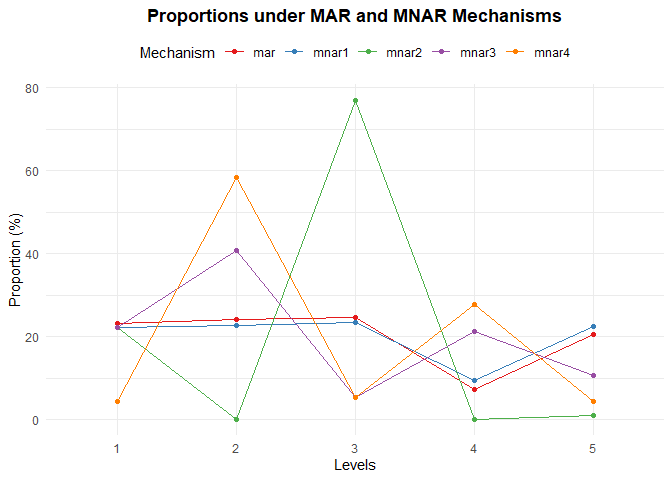
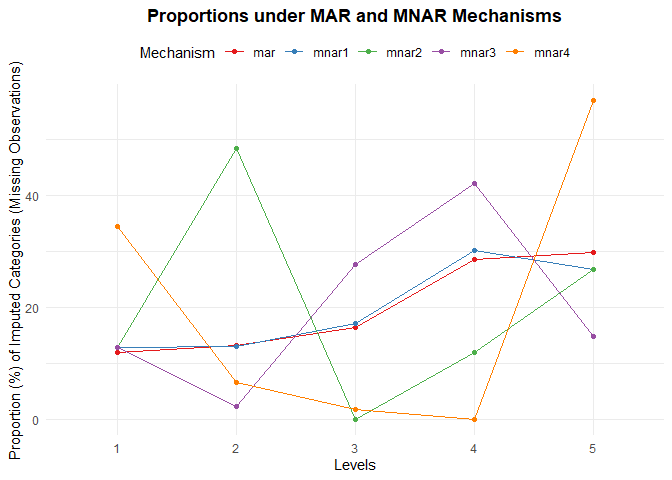
Modification

diff --git a/README.md b/README.md
@@ -68,9 +68,9 @@ mechanism for ordinal variables:
 ``` r
 set.seed(321)
 simdaNA <- simmnar(data = simda, Y = "Y",
-                   ord_var = "X1", A = 2, probA = 0.5,
-                   B = 4, probB = 0.8, verbose = TRUE)
-#> 192 missing values introduced into X1.mis.
+                   ord_var = "X1", A = 1, probA = 0.6,
+                   B = 5, probB = 0.4, verbose = TRUE)
+#> 50 missing values introduced into X1.mis.
 head(simdaNA)
 #>   id X2 X1 Y X1.mis
 #> 1  1  c  5 1      5
@@ -78,22 +78,15 @@ head(simdaNA)
 #> 3  3  c  5 1      5
 #> 4  4  b  2 0      2
 #> 5  5  c  2 0      2
-#> 6  6  b  4 0   <NA>
+#> 6  6  b  4 0      4
 summary(simdaNA)
 #>        id         X2      X1      Y        X1.mis   
-#>  Min.   :   1.0   a:249   1:126   0:607   1   :126  
-#>  1st Qu.: 250.8   b:248   2:162   1:393   2   :144  
+#>  Min.   :   1.0   a:249   1:126   0:607   1   :103  
+#>  1st Qu.: 250.8   b:248   2:162   1:393   2   :162  
 #>  Median : 500.5   c:257   3:178           3   :178  
-#>  Mean   : 500.5   d:246   4:254           4   : 80  
-#>  3rd Qu.: 750.2           5:280           5   :280  
-#>  Max.   :1000.0                           NA's:192
-str(simdaNA)
-#> 'data.frame':    1000 obs. of  5 variables:
-#>  $ id    : int  1 2 3 4 5 6 7 8 9 10 ...
-#>  $ X2    : Factor w/ 4 levels "a","b","c","d": 3 3 3 2 3 2 2 2 3 1 ...
-#>  $ X1    : Ord.factor w/ 5 levels "1"<"2"<"3"<"4"<..: 5 3 5 2 2 4 2 5 5 4 ...
-#>  $ Y     : Factor w/ 2 levels "0","1": 2 1 2 1 1 1 1 2 2 1 ...
-#>  $ X1.mis: Ord.factor w/ 5 levels "1"<"2"<"3"<"4"<..: 5 3 5 2 2 NA 2 5 5 4 ...
+#>  Mean   : 500.5   d:246   4:254           4   :254  
+#>  3rd Qu.: 750.2           5:280           5   :253  
+#>  Max.   :1000.0                           NA's: 50
 ```
 
 ## Step 1: Imputation under MAR with `firststep()`
@@ -121,21 +114,21 @@ imputed_mice <- firststep(simdaNA[, c("Y", "X1.mis", "X2")],
 
 summary(complete(imputed_mice, 1))
 #>  Y       X1.mis  X2     
-#>  0:607   1:169   a:249  
-#>  1:393   2:192   b:248  
-#>          3:225   c:257  
-#>          4:100   d:246  
-#>          5:314
+#>  0:607   1:105   a:249  
+#>  1:393   2:168   b:248  
+#>          3:183   c:257  
+#>          4:275   d:246  
+#>          5:269
 ```
 
 ``` r
 summary(complete(imputed_mice,1))
 #>  Y       X1.mis  X2     
-#>  0:607   1:169   a:249  
-#>  1:393   2:192   b:248  
-#>          3:225   c:257  
-#>          4:100   d:246  
-#>          5:314
+#>  0:607   1:105   a:249  
+#>  1:393   2:168   b:248  
+#>          3:183   c:257  
+#>          4:275   d:246  
+#>          5:269
 ```
 
 ## Step 2: Modify imputed values with `secondstep()`
@@ -144,16 +137,16 @@ summary(complete(imputed_mice,1))
 formula <- "X1.mis.mar ~ Y + X2"
 manydelta <- data.frame(
   delta1 = c(0, 0, 0, 0),
-  delta2 = c(0, -1, 2, 0),
-  delta3 = c(0, 0.5, 0, 0.5),
-  delta4 = c(-1, 0.5, 0, 1)
+  delta2 = c(0, 1, -2, 0),
+  delta3 = c(0, -0.5, 0, 0.5),
+  delta4 = c(1, 0.5, 0, -1)
 )
 
 level_ord_var <- 5
-seed <- 123
 ```
 
 ``` r
+seed <- 123
 out <- secondstep_mice(data = simdaNA, mardata = imputed_mice,
                   level_ord_var = level_ord_var,
                   formula = formula,
@@ -167,40 +160,44 @@ out <- secondstep_mice(data = simdaNA, mardata = imputed_mice,
 
 summary(out$mnardata[[2]])
 #>  Y       X1.mis.mar X2       X1.mis         eta             etanew       
-#>  0:607   1:165      a:249   1   :126   Min.   :0.0000   Min.   :-3.0479  
-#>  1:393   2:191      b:248   2   :144   1st Qu.:0.2036   1st Qu.:-0.1249  
-#>          3:235      c:257   3   :178   Median :0.4624   Median : 0.6761  
-#>          4: 91      d:246   4   : 80   Mean   :0.6320   Mean   : 0.6745  
-#>          5:318              5   :280   3rd Qu.:1.1745   3rd Qu.: 1.4863  
-#>                             NA's:192   Max.   :1.4332   Max.   : 4.7238  
+#>  0:607   1:111      a:249   1   :103   Min.   :0.0000   Min.   :-3.0479  
+#>  1:393   2:169      b:248   2   :162   1st Qu.:0.1263   1st Qu.:-0.1804  
+#>          3:188      c:257   3   :178   Median :0.2907   Median : 0.5869  
+#>          4:265      d:246   4   :254   Mean   :0.5477   Mean   : 0.5902  
+#>          5:267              5   :253   3rd Qu.:1.1296   3rd Qu.: 1.3777  
+#>                             NA's: 50   Max.   :1.2940   Max.   : 4.5845  
 #>  mnar1   mnar2   mnar3   mnar4  
-#>  1:167   1:167   1:167   1:134  
-#>  2:175   2:144   2:212   2:245  
-#>  3:228   3:328   3:191   3:191  
-#>  4: 99   4: 80   4:126   4:141  
-#>  5:331   5:281   5:304   5:289  
+#>  1:109   1:109   1:109   1:119  
+#>  2:170   2:189   2:164   2:166  
+#>  3:186   3:178   3:192   3:180  
+#>  4:270   4:259   4:275   4:254  
+#>  5:265   5:265   5:260   5:281  
 #> 
 ```
 
 ``` r
 summary(out$mnardata[[2]])
 #>  Y       X1.mis.mar X2       X1.mis         eta             etanew       
-#>  0:607   1:165      a:249   1   :126   Min.   :0.0000   Min.   :-3.0479  
-#>  1:393   2:191      b:248   2   :144   1st Qu.:0.2036   1st Qu.:-0.1249  
-#>          3:235      c:257   3   :178   Median :0.4624   Median : 0.6761  
-#>          4: 91      d:246   4   : 80   Mean   :0.6320   Mean   : 0.6745  
-#>          5:318              5   :280   3rd Qu.:1.1745   3rd Qu.: 1.4863  
-#>                             NA's:192   Max.   :1.4332   Max.   : 4.7238  
+#>  0:607   1:111      a:249   1   :103   Min.   :0.0000   Min.   :-3.0479  
+#>  1:393   2:169      b:248   2   :162   1st Qu.:0.1263   1st Qu.:-0.1804  
+#>          3:188      c:257   3   :178   Median :0.2907   Median : 0.5869  
+#>          4:265      d:246   4   :254   Mean   :0.5477   Mean   : 0.5902  
+#>          5:267              5   :253   3rd Qu.:1.1296   3rd Qu.: 1.3777  
+#>                             NA's: 50   Max.   :1.2940   Max.   : 4.5845  
 #>  mnar1   mnar2   mnar3   mnar4  
-#>  1:167   1:167   1:167   1:134  
-#>  2:175   2:144   2:212   2:245  
-#>  3:228   3:328   3:191   3:191  
-#>  4: 99   4: 80   4:126   4:141  
-#>  5:331   5:281   5:304   5:289  
+#>  1:109   1:109   1:109   1:119  
+#>  2:170   2:189   2:164   2:166  
+#>  3:186   3:178   3:192   3:180  
+#>  4:270   4:259   4:275   4:254  
+#>  5:265   5:265   5:260   5:281  
 #> 
 ```
 
 ## Check plausibility with `checkprop()`
+
+En résumé, parmi les quatre scénarios explorés à l’aide du vecteur de
+paramètres de sensibilité, seuls le scénario `MNAR4` permet de refléter
+correctement les causes plausibles des données manquantes.
 
 ``` r
 checkprop(data = out$mnardata,
@@ -208,12 +205,12 @@ checkprop(data = out$mnardata,
           ord_mis = "X1.mis",
           manydelta = manydelta)
 #> $table
-#>        mar     mnar1     mnar2     mnar3     mnar4
-#> 1 23.22917 22.083333 22.083333 22.083333  4.322917
-#> 2 24.16667 22.604167  0.000000 40.677083 58.437500
-#> 3 24.63542 23.333333 76.875000  5.260417  5.260417
-#> 4  7.34375  9.427083  0.000000 21.250000 27.708333
-#> 5 20.62500 22.552083  1.041667 10.729167  4.270833
+#>    mar mnar1 mnar2 mnar3 mnar4
+#> 1 12.0  12.8  12.8  12.8  34.6
+#> 2 13.2  13.0  48.4   2.4   6.6
+#> 3 16.4  17.2   0.0  27.8   1.8
+#> 4 28.6  30.2  12.0  42.2   0.0
+#> 5 29.8  26.8  26.8  14.8  57.0
 #> 
 #> $plot
 ```
@@ -222,109 +219,126 @@ checkprop(data = out$mnardata,
 
 ## Step 4: Final analysis with `thirdstep_mice()`
 
+Les noms `mnar1.L`, `mnar1.Q`, `mnar1.C` et `mnar1^4` désignent les
+composantes polynomiales associées à la variable ordinale `mnar1`,
+générées automatiquement par la codification `contr.poly` dans *R*. Plus
+précisément :
+
+- `.L` correspond à la composante **linéaire**,
+- `.Q` à la composante **quadratique**,
+- `.C` à la composante **cubique**,
+- `^4` à la composante **quartique**.
+
+Par ailleurs, `MNAR 1` désigne les résultats de l’analyse de sensibilité
+sous le scénario défini par le vecteur de sensibilité delta1.  
+Le même raisonnement s’applique respectivement pour `MNAR 2`, `MNAR 3`
+et `MNAR 4`.
+
 ``` r
 formula <- "Y ~ X1.mis.mar + X2"
 
 # Analysis for MAR
 thirdstep_mice(data = out$mnardata, formula = formula)
 #>           term   estimate std.error statistic       df      p.value      2.5 %
-#> 1  (Intercept) -1.3080085 0.1710881 -7.645232 831.4313 5.756427e-14 -1.6438240
-#> 2 X1.mis.mar.L  1.7617941 0.1921677  9.168003 190.2952 7.891561e-17  1.3827416
-#> 3 X1.mis.mar.Q  0.8804233 0.1730646  5.087251 521.6876 5.076434e-07  0.5404341
-#> 4 X1.mis.mar.C -0.4961025 0.2434016 -2.038206 124.3862 4.364951e-02 -0.9778477
-#> 5 X1.mis.mar^4  0.5495191 0.1991266  2.759647 300.6493 6.141448e-03  0.1576607
-#> 6          X2b  0.8299114 0.2253041  3.683516 733.7659 2.469434e-04  0.3875938
-#> 7          X2c  0.8180834 0.2221247  3.682991 773.1735 2.465609e-04  0.3820444
-#> 8          X2d  0.6811551 0.2299625  2.962027 488.7064 3.205055e-03  0.2293179
-#>        97.5 %   conf.low   conf.high
-#> 1 -0.97219305 -1.6438240 -0.97219305
-#> 2  2.14084651  1.3827416  2.14084651
-#> 3  1.22041250  0.5404341  1.22041250
-#> 4 -0.01435733 -0.9778477 -0.01435733
-#> 5  0.94137755  0.1576607  0.94137755
-#> 6  1.27222891  0.3875938  1.27222891
-#> 7  1.25412237  0.3820444  1.25412237
-#> 8  1.13299231  0.2293179  1.13299231
+#> 1  (Intercept) -1.3275547 0.1813522 -7.320311 926.1892 5.366412e-13 -1.6834637
+#> 2 X1.mis.mar.L  1.9096327 0.2360606  8.089588 269.7971 2.047538e-14  1.4448777
+#> 3 X1.mis.mar.Q  1.0003713 0.2117767  4.723709 496.9288 3.017974e-06  0.5842833
+#> 4 X1.mis.mar.C  1.2794045 0.1958654  6.532061 533.8962 1.514215e-10  0.8946432
+#> 5 X1.mis.mar^4  1.0068195 0.1731628  5.814294 579.8199 1.006313e-08  0.6667167
+#> 6          X2b  0.9061304 0.2400229  3.775183 876.6643 1.706604e-04  0.4350437
+#> 7          X2c  0.8177132 0.2363148  3.460271 930.1502 5.641551e-04  0.3539413
+#> 8          X2d  0.7785595 0.2387134  3.261483 972.9962 1.146822e-03  0.3101072
+#>       97.5 %   conf.low  conf.high
+#> 1 -0.9716458 -1.6834637 -0.9716458
+#> 2  2.3743877  1.4448777  2.3743877
+#> 3  1.4164594  0.5842833  1.4164594
+#> 4  1.6641659  0.8946432  1.6641659
+#> 5  1.3469223  0.6667167  1.3469223
+#> 6  1.3772170  0.4350437  1.3772170
+#> 7  1.2814850  0.3539413  1.2814850
+#> 8  1.2470119  0.3101072  1.2470119
+```
 
+``` r
 # Analysis for MNAR
 thirdstep_mice(data = out$mnardata, manydelta = manydelta)
 #> $mnar1
 #>          term   estimate std.error statistic       df      p.value      2.5 %
-#> 1 (Intercept) -1.3246051 0.1731645 -7.649404 628.9897 7.604332e-14 -1.6646556
-#> 2     mnar1.L  1.7000440 0.1861616  9.132087 292.6458 1.140050e-17  1.3336587
-#> 3     mnar1.Q  0.8856254 0.1791687  4.942970 269.4031 1.354169e-06  0.5328766
-#> 4     mnar1.C -0.4594599 0.2404779 -1.910612 137.9896 5.812875e-02 -0.9349580
-#> 5     mnar1^4  0.5965721 0.1955006  3.051510 409.2310 2.425271e-03  0.2122613
-#> 6         X2b  0.8200315 0.2253022  3.639696 674.5516 2.938367e-04  0.3776536
-#> 7         X2c  0.8266093 0.2201793  3.754255 830.5055 1.859712e-04  0.3944360
-#> 8         X2d  0.6909419 0.2237458  3.088067 746.2778 2.089271e-03  0.2516959
-#>        97.5 %   conf.low   conf.high
-#> 1 -0.98455461 -1.6646556 -0.98455461
-#> 2  2.06642929  1.3336587  2.06642929
-#> 3  1.23837433  0.5328766  1.23837433
-#> 4  0.01603811 -0.9349580  0.01603811
-#> 5  0.98088294  0.2122613  0.98088294
-#> 6  1.26240940  0.3776536  1.26240940
-#> 7  1.25878255  0.3944360  1.25878255
-#> 8  1.13018793  0.2516959  1.13018793
+#> 1 (Intercept) -1.3017247 0.1806819 -7.204511 933.3894 1.200047e-12 -1.6563146
+#> 2     mnar1.L  1.9226339 0.2209149  8.703054 935.3380 1.439301e-17  1.4890877
+#> 3     mnar1.Q  0.9859175 0.2072384  4.757408 785.4169 2.333523e-06  0.5791109
+#> 4     mnar1.C  1.3151004 0.1896505  6.934338 933.7103 7.613369e-12  0.9429099
+#> 5     mnar1^4  1.0267241 0.1750603  5.864975 459.7879 8.592534e-09  0.6827067
+#> 6         X2b  0.8766824 0.2390954  3.666664 922.2936 2.597834e-04  0.4074483
+#> 7         X2c  0.7895290 0.2364122  3.339630 924.1564 8.724634e-04  0.3255621
+#> 8         X2d  0.7483919 0.2388742  3.132996 967.7419 1.782358e-03  0.2796208
+#>       97.5 %   conf.low  conf.high
+#> 1 -0.9471349 -1.6563146 -0.9471349
+#> 2  2.3561801  1.4890877  2.3561801
+#> 3  1.3927241  0.5791109  1.3927241
+#> 4  1.6872910  0.9429099  1.6872910
+#> 5  1.3707416  0.6827067  1.3707416
+#> 6  1.3459166  0.4074483  1.3459166
+#> 7  1.2534960  0.3255621  1.2534960
+#> 8  1.2171631  0.2796208  1.2171631
 #> 
 #> $mnar2
 #>          term   estimate std.error statistic       df      p.value      2.5 %
-#> 1 (Intercept) -1.2605386 0.1718069 -7.336948 988.9681 4.549263e-13 -1.5976866
-#> 2     mnar2.L  1.9345104 0.1852539 10.442480 844.9872 4.310624e-24  1.5708986
-#> 3     mnar2.Q  1.1115707 0.1726029  6.440048 789.0737 2.074171e-10  0.7727556
-#> 4     mnar2.C -0.3948537 0.2264007 -1.744048 979.8770 8.146431e-02 -0.8391397
-#> 5     mnar2^4  0.1973011 0.1874286  1.052673 986.3282 2.927486e-01 -0.1705036
-#> 6         X2b  0.8915681 0.2241798  3.977022 985.9341 7.488508e-05  0.4516437
-#> 7         X2c  0.8714537 0.2217619  3.929681 988.5640 9.097735e-05  0.4362755
-#> 8         X2d  0.7210555 0.2233824  3.227897 989.0082 1.288042e-03  0.2826975
-#>        97.5 %   conf.low   conf.high
-#> 1 -0.92339053 -1.5976866 -0.92339053
-#> 2  2.29812226  1.5708986  2.29812226
-#> 3  1.45038581  0.7727556  1.45038581
-#> 4  0.04943233 -0.8391397  0.04943233
-#> 5  0.56510579 -0.1705036  0.56510579
-#> 6  1.33149252  0.4516437  1.33149252
-#> 7  1.30663191  0.4362755  1.30663191
-#> 8  1.15941346  0.2826975  1.15941346
+#> 1 (Intercept) -1.2988329 0.1804587 -7.197396 940.9682 1.253826e-12 -1.6529810
+#> 2     mnar2.L  1.8645486 0.2216114  8.413596 879.8250 1.596841e-16  1.4295999
+#> 3     mnar2.Q  0.9805103 0.2073435  4.728918 804.9667 2.664699e-06  0.5735126
+#> 4     mnar2.C  1.4305110 0.1971630  7.255475 387.5311 2.199369e-12  1.0428680
+#> 5     mnar2^4  1.0196033 0.1692754  6.023341 860.3072 2.529774e-09  0.6873622
+#> 6         X2b  0.8814439 0.2400274  3.672263 889.6085 2.547545e-04  0.4103578
+#> 7         X2c  0.7832443 0.2363763  3.313548 922.6263 9.570451e-04  0.3193467
+#> 8         X2d  0.7555163 0.2396982  3.151948 953.7204 1.672471e-03  0.2851195
+#>       97.5 %   conf.low  conf.high
+#> 1 -0.9446848 -1.6529810 -0.9446848
+#> 2  2.2994972  1.4295999  2.2994972
+#> 3  1.3875079  0.5735126  1.3875079
+#> 4  1.8181539  1.0428680  1.8181539
+#> 5  1.3518444  0.6873622  1.3518444
+#> 6  1.3525299  0.4103578  1.3525299
+#> 7  1.2471420  0.3193467  1.2471420
+#> 8  1.2259131  0.2851195  1.2259131
 #> 
 #> $mnar3
 #>          term   estimate std.error statistic       df      p.value      2.5 %
-#> 1 (Intercept) -1.3151007 0.1714331 -7.671220 902.6829 4.408252e-14 -1.6515545
-#> 2     mnar3.L  1.7923448 0.1793299  9.994679 539.0830 1.082898e-21  1.4400737
-#> 3     mnar3.Q  0.9473136 0.1742162  5.437574 535.7849 8.220201e-08  0.6050830
-#> 4     mnar3.C -0.3493832 0.2301950 -1.517770 125.6469 1.315844e-01 -0.8049447
-#> 5     mnar3^4  0.9276269 0.1860019  4.987190 711.8114 7.704828e-07  0.5624489
-#> 6         X2b  0.8464080 0.2267190  3.733290 862.7456 2.013894e-04  0.4014225
-#> 7         X2c  0.8243601 0.2223093  3.708167 936.8592 2.210288e-04  0.3880782
-#> 8         X2d  0.7203452 0.2283390  3.154718 749.5597 1.670696e-03  0.2720851
+#> 1 (Intercept) -1.2791668 0.1788983 -7.150246 971.1684 1.702277e-12 -1.6302386
+#> 2     mnar3.L  1.9620922 0.2213680  8.863485 943.4801 3.801750e-18  1.5276615
+#> 3     mnar3.Q  0.9823152 0.2068103  4.749837 819.9435 2.402820e-06  0.5763753
+#> 4     mnar3.C  1.2647825 0.1878595  6.732596 971.6631 2.846597e-11  0.8961253
+#> 5     mnar3^4  0.9761919 0.1692971  5.766147 730.6127 1.196866e-08  0.6438251
+#> 6         X2b  0.8785710 0.2366224  3.712967 957.7625 2.166684e-04  0.4142129
+#> 7         X2c  0.7838715 0.2343522  3.344844 957.9369 8.552373e-04  0.3239686
+#> 8         X2d  0.7335923 0.2368901  3.096763 981.7995 2.012006e-03  0.2687232
 #>       97.5 %   conf.low  conf.high
-#> 1 -0.9786470 -1.6515545 -0.9786470
-#> 2  2.1446158  1.4400737  2.1446158
-#> 3  1.2895442  0.6050830  1.2895442
-#> 4  0.1061784 -0.8049447  0.1061784
-#> 5  1.2928048  0.5624489  1.2928048
-#> 6  1.2913934  0.4014225  1.2913934
-#> 7  1.2606419  0.3880782  1.2606419
-#> 8  1.1686052  0.2720851  1.1686052
+#> 1 -0.9280951 -1.6302386 -0.9280951
+#> 2  2.3965229  1.5276615  2.3965229
+#> 3  1.3882551  0.5763753  1.3882551
+#> 4  1.6334396  0.8961253  1.6334396
+#> 5  1.3085587  0.6438251  1.3085587
+#> 6  1.3429291  0.4142129  1.3429291
+#> 7  1.2437744  0.3239686  1.2437744
+#> 8  1.1984614  0.2687232  1.1984614
 #> 
 #> $mnar4
 #>          term   estimate std.error statistic       df      p.value      2.5 %
-#> 1 (Intercept) -1.2924246 0.1718743 -7.519591 932.0179 1.290283e-13 -1.6297300
-#> 2     mnar4.L  1.6910924 0.1830848  9.236660 613.3348 4.108912e-19  1.3315432
-#> 3     mnar4.Q  1.2148767 0.1746557  6.955838 782.0813 7.408808e-12  0.8720272
-#> 4     mnar4.C -0.4424532 0.2132233 -2.075070 262.4164 3.895449e-02 -0.8622995
-#> 5     mnar4^4  1.0607755 0.1837247  5.773723 658.9475 1.194693e-08  0.7000191
-#> 6         X2b  0.8950674 0.2293793  3.902127 904.3498 1.024235e-04  0.4448897
-#> 7         X2c  0.8334793 0.2249550  3.705093 936.3176 2.236950e-04  0.3920049
-#> 8         X2d  0.7541997 0.2273538  3.317296 951.4716 9.433614e-04  0.3080269
-#>        97.5 %   conf.low   conf.high
-#> 1 -0.95511907 -1.6297300 -0.95511907
-#> 2  2.05064160  1.3315432  2.05064160
-#> 3  1.55772611  0.8720272  1.55772611
-#> 4 -0.02260695 -0.8622995 -0.02260695
-#> 5  1.42153192  0.7000191  1.42153192
-#> 6  1.34524515  0.4448897  1.34524515
-#> 7  1.27495374  0.3920049  1.27495374
-#> 8  1.20037246  0.3080269  1.20037246
+#> 1 (Intercept) -1.3598903 0.1820905 -7.468211 795.5200 2.139677e-13 -1.7173249
+#> 2     mnar4.L  1.7291115 0.2141263  8.075195 578.7889 3.925221e-15  1.3085522
+#> 3     mnar4.Q  0.9879701 0.1951116  5.063614 943.3833 4.946511e-07  0.6050670
+#> 4     mnar4.C  1.3410134 0.1908336  7.027133 931.4862 4.069972e-12  0.9664997
+#> 5     mnar4^4  1.0724007 0.1715063  6.252836 959.1468 6.059476e-10  0.7358298
+#> 6         X2b  0.9004999 0.2434712  3.698589 677.9932 2.343527e-04  0.4224517
+#> 7         X2c  0.8063695 0.2379776  3.388426 795.6372 7.375221e-04  0.3392313
+#> 8         X2d  0.8024017 0.2417121  3.319659 819.8670 9.410684e-04  0.3279543
+#>      97.5 %   conf.low conf.high
+#> 1 -1.002456 -1.7173249 -1.002456
+#> 2  2.149671  1.3085522  2.149671
+#> 3  1.370873  0.6050670  1.370873
+#> 4  1.715527  0.9664997  1.715527
+#> 5  1.408972  0.7358298  1.408972
+#> 6  1.378548  0.4224517  1.378548
+#> 7  1.273508  0.3392313  1.273508
+#> 8  1.276849  0.3279543  1.276849
 ```
